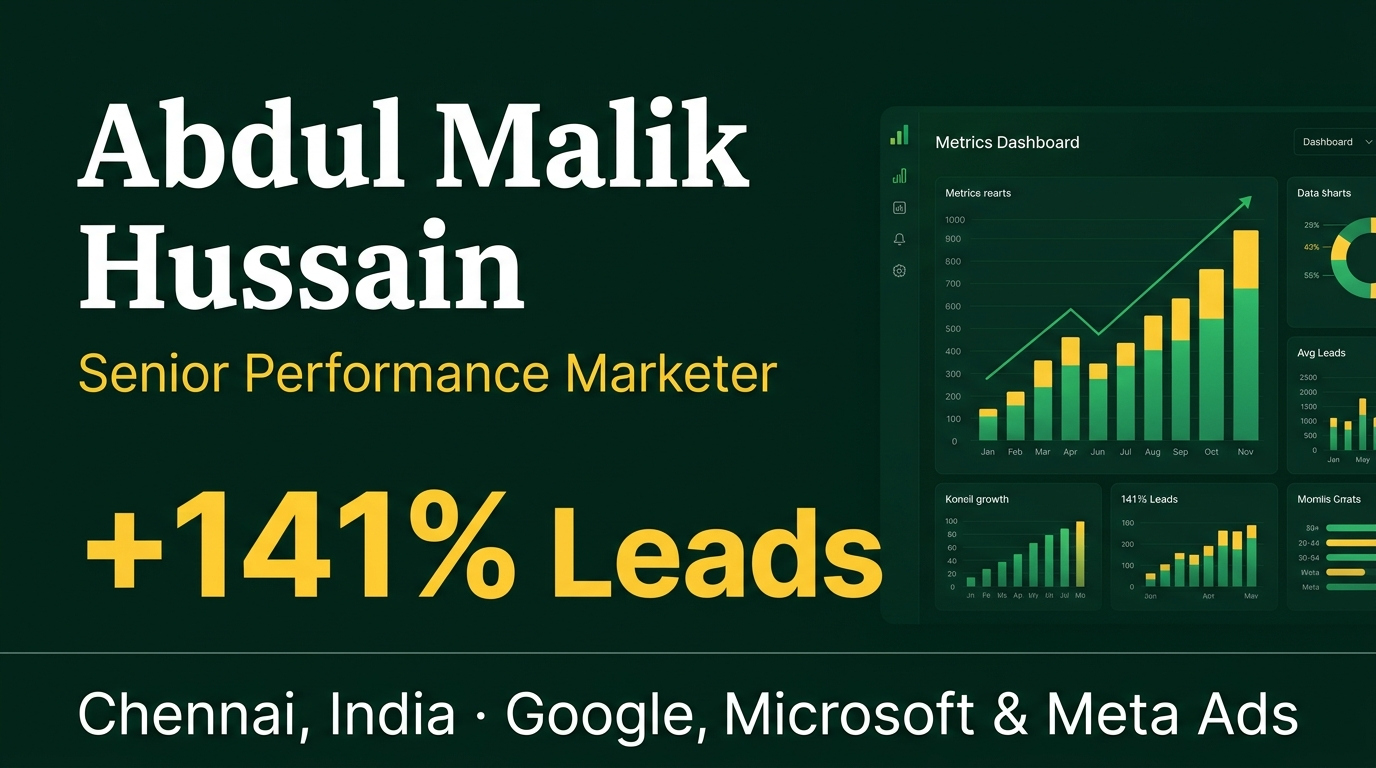
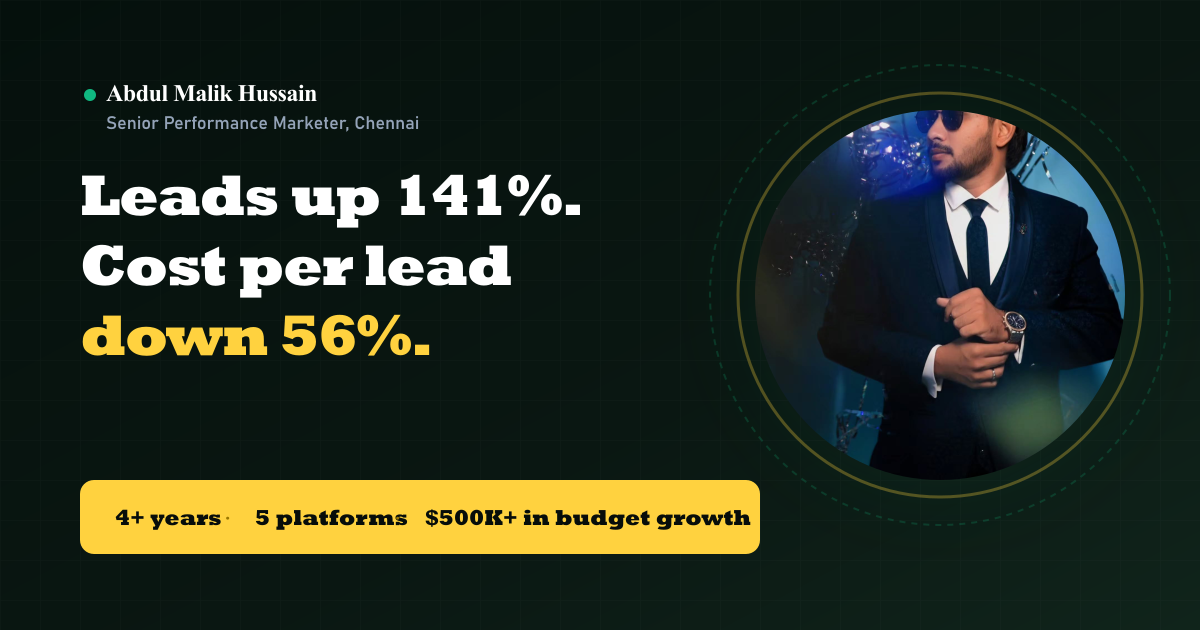
fix: complete 13 pre-LinkedIn launch fixes, retain theme studio, and add sample report PDF

diff --git a/src/components/ChecksAndCall/ChecksAndCall.tsx b/src/components/ChecksAndCall/ChecksAndCall.tsx
@@ -73,10 +73,10 @@ export default function ChecksAndCall() {
           </div>
         </div>
 
-        {/* 2. Grid with Recommendations, Book a Call & Sample Review */}
+        {/* 2. Grid with Book a Call & Sample Review */}
         <div className={styles.bottomGrid}>
           {/* Left: Book a 15-min call Card */}
-          <div className={styles.callCard}>
+          <div id="book-call" className={styles.callCard}>
             <div className={styles.callTag}>Direct Diagnostic Access</div>
             <h3 className={styles.callTitle}>{checksConfig.bookCall.title}</h3>
             <p className={styles.callDesc}>{checksConfig.bookCall.description}</p>
@@ -138,38 +138,32 @@ export default function ChecksAndCall() {
             </div>
           </div>
 
-          {/* Right column: Honest Recommendations + Sample Review */}
+          {/* Right column: Sample Review Artifact */}
           <div className={styles.secondaryCol}>
-            {/* Recommendations Card */}
-            <div className={styles.recCard}>
-              <div className={styles.recHeader}>
-                <h4 className={styles.recTitle}>{checksConfig.recommendations.title}</h4>
-                <span className={styles.recBadge}>Verified Policy</span>
-              </div>
-              <p className={styles.recMessage}>
-                {checksConfig.recommendations.placeholderMessage}
-              </p>
-              <div className={styles.recFooter}>
-                <LockIcon size={14} className={styles.recLockIcon} />
-                <span className={styles.recNote}>{checksConfig.recommendations.note}</span>
-              </div>
-            </div>
-
-            {/* Extras 2: Sample Campaign Review Card */}
             <div className={styles.sampleCard}>
               <div className={styles.sampleTag}>Reporting Artifact</div>
               <h4 className={styles.sampleTitle}>{checksConfig.sampleReport.title}</h4>
               <p className={styles.sampleSubtitle}>{checksConfig.sampleReport.subtitle}</p>
               <p className={styles.sampleDesc}>{checksConfig.sampleReport.description}</p>
 
-              <button
-                id="btn-sample-report"
-                className="btn btn--secondary btn--sm"
-                onClick={() => setShowSampleModal(true)}
-              >
-                <DownloadIcon size={14} />
-                <span>{checksConfig.sampleReport.buttonLabel}</span>
-              </button>
+              <div style={{ display: 'flex', gap: '0.75rem', flexWrap: 'wrap', marginTop: '1.25rem' }}>
+                <a
+                  id="btn-sample-report"
+                  href="/sample-campaign-review.pdf"
+                  download="sample-campaign-review.pdf"
+                  className="btn btn--primary btn--sm"
+                >
+                  <DownloadIcon size={14} />
+                  <span>See how I report (PDF)</span>
+                </a>
+                <button
+                  id="btn-preview-sample-report"
+                  className="btn btn--secondary btn--sm"
+                  onClick={() => setShowSampleModal(true)}
+                >
+                  <span>Quick Preview</span>
+                </button>
+              </div>
             </div>
           </div>
         </div>

diff --git a/src/config/content/creative.config.ts b/src/config/content/creative.config.ts
@@ -61,7 +61,7 @@ export const creativeConfig = {
       hook: "“AC stopped at 2 AM in July? Here's who actually picks up.”",
       description:
         "Fast-paced pain-point reel showing immediate response guarantee and verified technician dispatch within 45 mins.",
-      duration: "0:15s",
+      duration: "12s",
       ratio: "9:16",
       tags: ["Emergency Dispatch", "Meta Video", "Call-to-Action"],
       performanceHighlight: "Tested 4.1% CTR · High hook retention",
@@ -100,7 +100,7 @@ export const creativeConfig = {
       hook: "“Knee pain keeping you off the field this weekend?”",
       description:
         "Direct patient-centric motion graphic leading directly into one-click WhatsApp appointment scheduler.",
-      duration: "0:18s",
+      duration: "12s",
       ratio: "9:16",
       tags: ["Patient Acquisition", "Direct Booking", "Meta Video"],
       performanceHighlight: "2.4x higher conversion than display",
@@ -139,7 +139,7 @@ export const creativeConfig = {
       hook: "Turn up your volume. That’s what precision tuning sounds like.",
       description:
         "High-adrenaline short video syncing dyno-run audio with staged performance upgrade milestones.",
-      duration: "0:12s",
+      duration: "12s",
       ratio: "9:16",
       tags: ["Sound First", "Enthusiast Audience", "Reels/TikTok"],
       performanceHighlight: "68% 3-sec thumb-stop rate",
@@ -161,7 +161,7 @@ export const creativeConfig = {
         "Data-dense visual graphic built for gearheads who prioritize real telemetry and dyno sheets over fluff.",
       ratio: "1:1",
       tags: ["Dyno Verified", "High Intent", "Search & Social"],
-      performanceHighlight: "3.2x Return on Ad Spend angle",
+      performanceHighlight: "+145% click-through rate angle",
       colorScheme: {
         bg: "linear-gradient(145deg, #160e14, #080407)",
         accent: "#fb7185",
@@ -178,7 +178,7 @@ export const creativeConfig = {
       hook: "“No ‘DM for price’. Here’s exactly what ₹1.2 Cr buys in OMR.”",
       description:
         "Busts real estate cliches by disclosing genuine pricing upfront, eliminating unqualified leads instantly.",
-      duration: "0:20s",
+      duration: "12s",
       ratio: "9:16",
       tags: ["Price Transparency", "Qualified Buyer", "Instagram Reel"],
       performanceHighlight: "-48% unqualified lead inquiries",
@@ -217,7 +217,7 @@ export const creativeConfig = {
       hook: "Look for the laser-etched BIS Hallmark. Here’s how.",
       description:
         "Macro close-up video establishing authenticity, hallmark purity, and heritage craftsmanship.",
-      duration: "0:14s",
+      duration: "12s",
       ratio: "9:16",
       tags: ["BIS 916", "Heritage Trust", "Wedding Season"],
       performanceHighlight: "+85% save rate on Meta",
@@ -256,7 +256,7 @@ export const creativeConfig = {
       hook: "Client meeting, deep work, dinner drinks.",
       description:
         "Snappy transition reel demonstrating versatility of wrinkle-free cotton linen apparel for men.",
-      duration: "0:16s",
+      duration: "12s",
       ratio: "9:16",
       tags: ["Style Transitions", "Capsule Wardrobe", "Meta D2C"],
       performanceHighlight: "+40% repeat click-throughs",

diff --git a/src/components/Contact/Contact.tsx b/src/components/Contact/Contact.tsx
@@ -125,8 +125,28 @@ export default function Contact() {
                 <div className={styles.successIcon}>
                   <CheckCircleIcon size={32} />
                 </div>
-                <h3>Message received</h3>
-                <p>{contactConfig.form.successMessage}</p>
+                <h3>Message received!</h3>
+                <p>Thank you for reaching out. For immediate response within the day, you can also send this note directly via WhatsApp or Email:</p>
+                <div style={{ display: 'flex', gap: '0.75rem', marginTop: '1.25rem', flexWrap: 'wrap' }}>
+                  <a
+                    href={`https://wa.me/917395879451?text=${encodeURIComponent(
+                      `Hi Malik, I sent a note through your portfolio (${form.name}): "${form.message}"`
+                    )}`}
+                    target="_blank"
+                    rel="noopener noreferrer"
+                    className="btn btn--primary btn--sm"
+                  >
+                    <WhatsAppIcon size={14} />
+                    <span>Open in WhatsApp</span>
+                  </a>
+                  <a
+                    href={`mailto:malikhussain3013@gmail.com?subject=Portfolio Inquiry from ${encodeURIComponent(form.name || 'Visitor')}&body=${encodeURIComponent(form.message)}`}
+                    className="btn btn--secondary btn--sm"
+                  >
+                    <MailIcon size={14} />
+                    <span>Send via Email</span>
+                  </a>
+                </div>
               </div>
             ) : (
               <form onSubmit={handleSubmit} className={styles.form} noValidate>

diff --git a/src/components/Hero/Hero.tsx b/src/components/Hero/Hero.tsx
@@ -148,7 +148,7 @@ export default function Hero() {
               href="#results"
               className={`btn btn--primary ${styles.actionBtn}`}
             >
-              <span>Explore Verified Results</span>
+              <span>See my results</span>
               <ArrowRightIcon size={15} />
             </a>
             <a
@@ -195,7 +195,7 @@ export default function Hero() {
                 <span className={styles.livePulseDot} />
                 <span>Live Flight Simulator</span>
               </div>
-              <span className={styles.deckLiveTag}>Audited Benchmark</span>
+              <span className={styles.deckLiveTag}>Based on one of my accounts</span>
             </div>
 
             {/* Vertical Switcher Tabs */}
@@ -353,7 +353,7 @@ export default function Hero() {
       {/* Viewport Bottom Anchor Indicator */}
       <a href="#stats" className={styles.scrollIndicator} aria-label="Scroll down to stats">
         <span className={styles.scrollDot} />
-        <span className={styles.scrollText}>Scroll for audited client telemetry</span>
+        <span className={styles.scrollText}>Scroll for results</span>
         <span className={styles.scrollChevron}>↓</span>
       </a>
     </section>

diff --git a/src/config/site.config.ts b/src/config/site.config.ts
@@ -16,7 +16,7 @@ export const siteConfig = {
 
   // ─── SEO ───────────────────────────────────────────────────────────────────
   description:
-    "Senior Campaign Manager with 4+ years running $4–5M+ monthly ad spend across Google Ads, Microsoft Ads, Meta, and YouTube. Cutting cost-per-lead up to 90% and growing qualified pipeline.",
+    "Senior Performance Marketer with 4+ years in Google, Microsoft and Meta Ads. My team's book of business is about $4–5M a month, with $500K+ in approved budget growth. Leads up 141%, cost per lead down 56%.",
   keywords: [
     "Abdul Malik Hussain",
     "Senior Campaign Manager",
@@ -32,7 +32,7 @@ export const siteConfig = {
     "Chennai",
     "Digital Marketing",
   ],
-  canonicalUrl: "https://abdulmalik.dev",
+  canonicalUrl: "https://hussain-portfolio-tau.vercel.app",
 
   // ─── Open Graph / Social Sharing ───────────────────────────────────────────
   ogImage: "/og-image.png",

diff --git a/src/components/StatsStrip/StatsStrip.tsx b/src/components/StatsStrip/StatsStrip.tsx
@@ -13,8 +13,9 @@ interface Stat {
   decimals?: number;
 }
 
-function useCountUp(target: number, duration = 2000, started = false) {
-  const [count, setCount] = useState(0);
+function useCountUp(target: number, duration = 1600, started = false) {
+  // Always initialize with target so SSR, initial load, and LinkedIn in-app browser show real values immediately
+  const [count, setCount] = useState(target);
 
   useEffect(() => {
     if (!started) return;
@@ -30,6 +31,7 @@ function useCountUp(target: number, duration = 2000, started = false) {
       if (progress < 1) raf = requestAnimationFrame(step);
     };
 
+    setCount(0);
     raf = requestAnimationFrame(step);
     return () => cancelAnimationFrame(raf);
   }, [target, duration, started]);

diff --git a/src/components/LeadCalculator/LeadCalculator.tsx b/src/components/LeadCalculator/LeadCalculator.tsx
@@ -173,12 +173,13 @@ export default function LeadCalculator() {
               </a>
 
               <a
-                href="#checks"
+                href="/sample-campaign-review.pdf"
+                download="sample-campaign-review.pdf"
                 className="btn btn--secondary btn--sm"
                 id="btn-sample-report"
               >
                 <DownloadIcon size={14} />
-                <span>See sample reporting deck</span>
+                <span>See sample reporting deck (PDF)</span>
               </a>
             </div>
           </div>

diff --git a/src/components/About/About.tsx b/src/components/About/About.tsx
@@ -73,8 +73,8 @@ export default function About() {
                   <BriefcaseIcon size={16} />
                 </div>
                 <div>
-                  <strong>$4M–$5M Monthly Spend</strong>
-                  <p>Direct oversight of cross-channel multi-client ad accounts.</p>
+                  <strong>$4M–$5M Book of Business</strong>
+                  <p>My team's book of business is about $4–5M a month across multiple clients.</p>
                 </div>
               </div>
 

diff --git a/src/components/Results/Results.tsx b/src/components/Results/Results.tsx
@@ -23,7 +23,7 @@ export default function Results() {
         {/* Section Header */}
         <div className={styles.sectionHeader}>
           <div className="section-badge">
-            <span>Verified Track Record</span>
+            <span>Performance Track Record</span>
           </div>
           <h2 className={styles.heading}>What the data shows</h2>
           <p className={styles.subheading}>

diff --git a/src/components/CreativeGallery/CreativeGallery.tsx b/src/components/CreativeGallery/CreativeGallery.tsx
@@ -107,7 +107,7 @@ export default function CreativeGallery() {
                     {item.format === 'reel' ? (
                       <>
                         <PlayIcon size={10} />
-                        Reel {item.duration}
+                        Reel (12s)
                       </>
                     ) : (
                       <>
